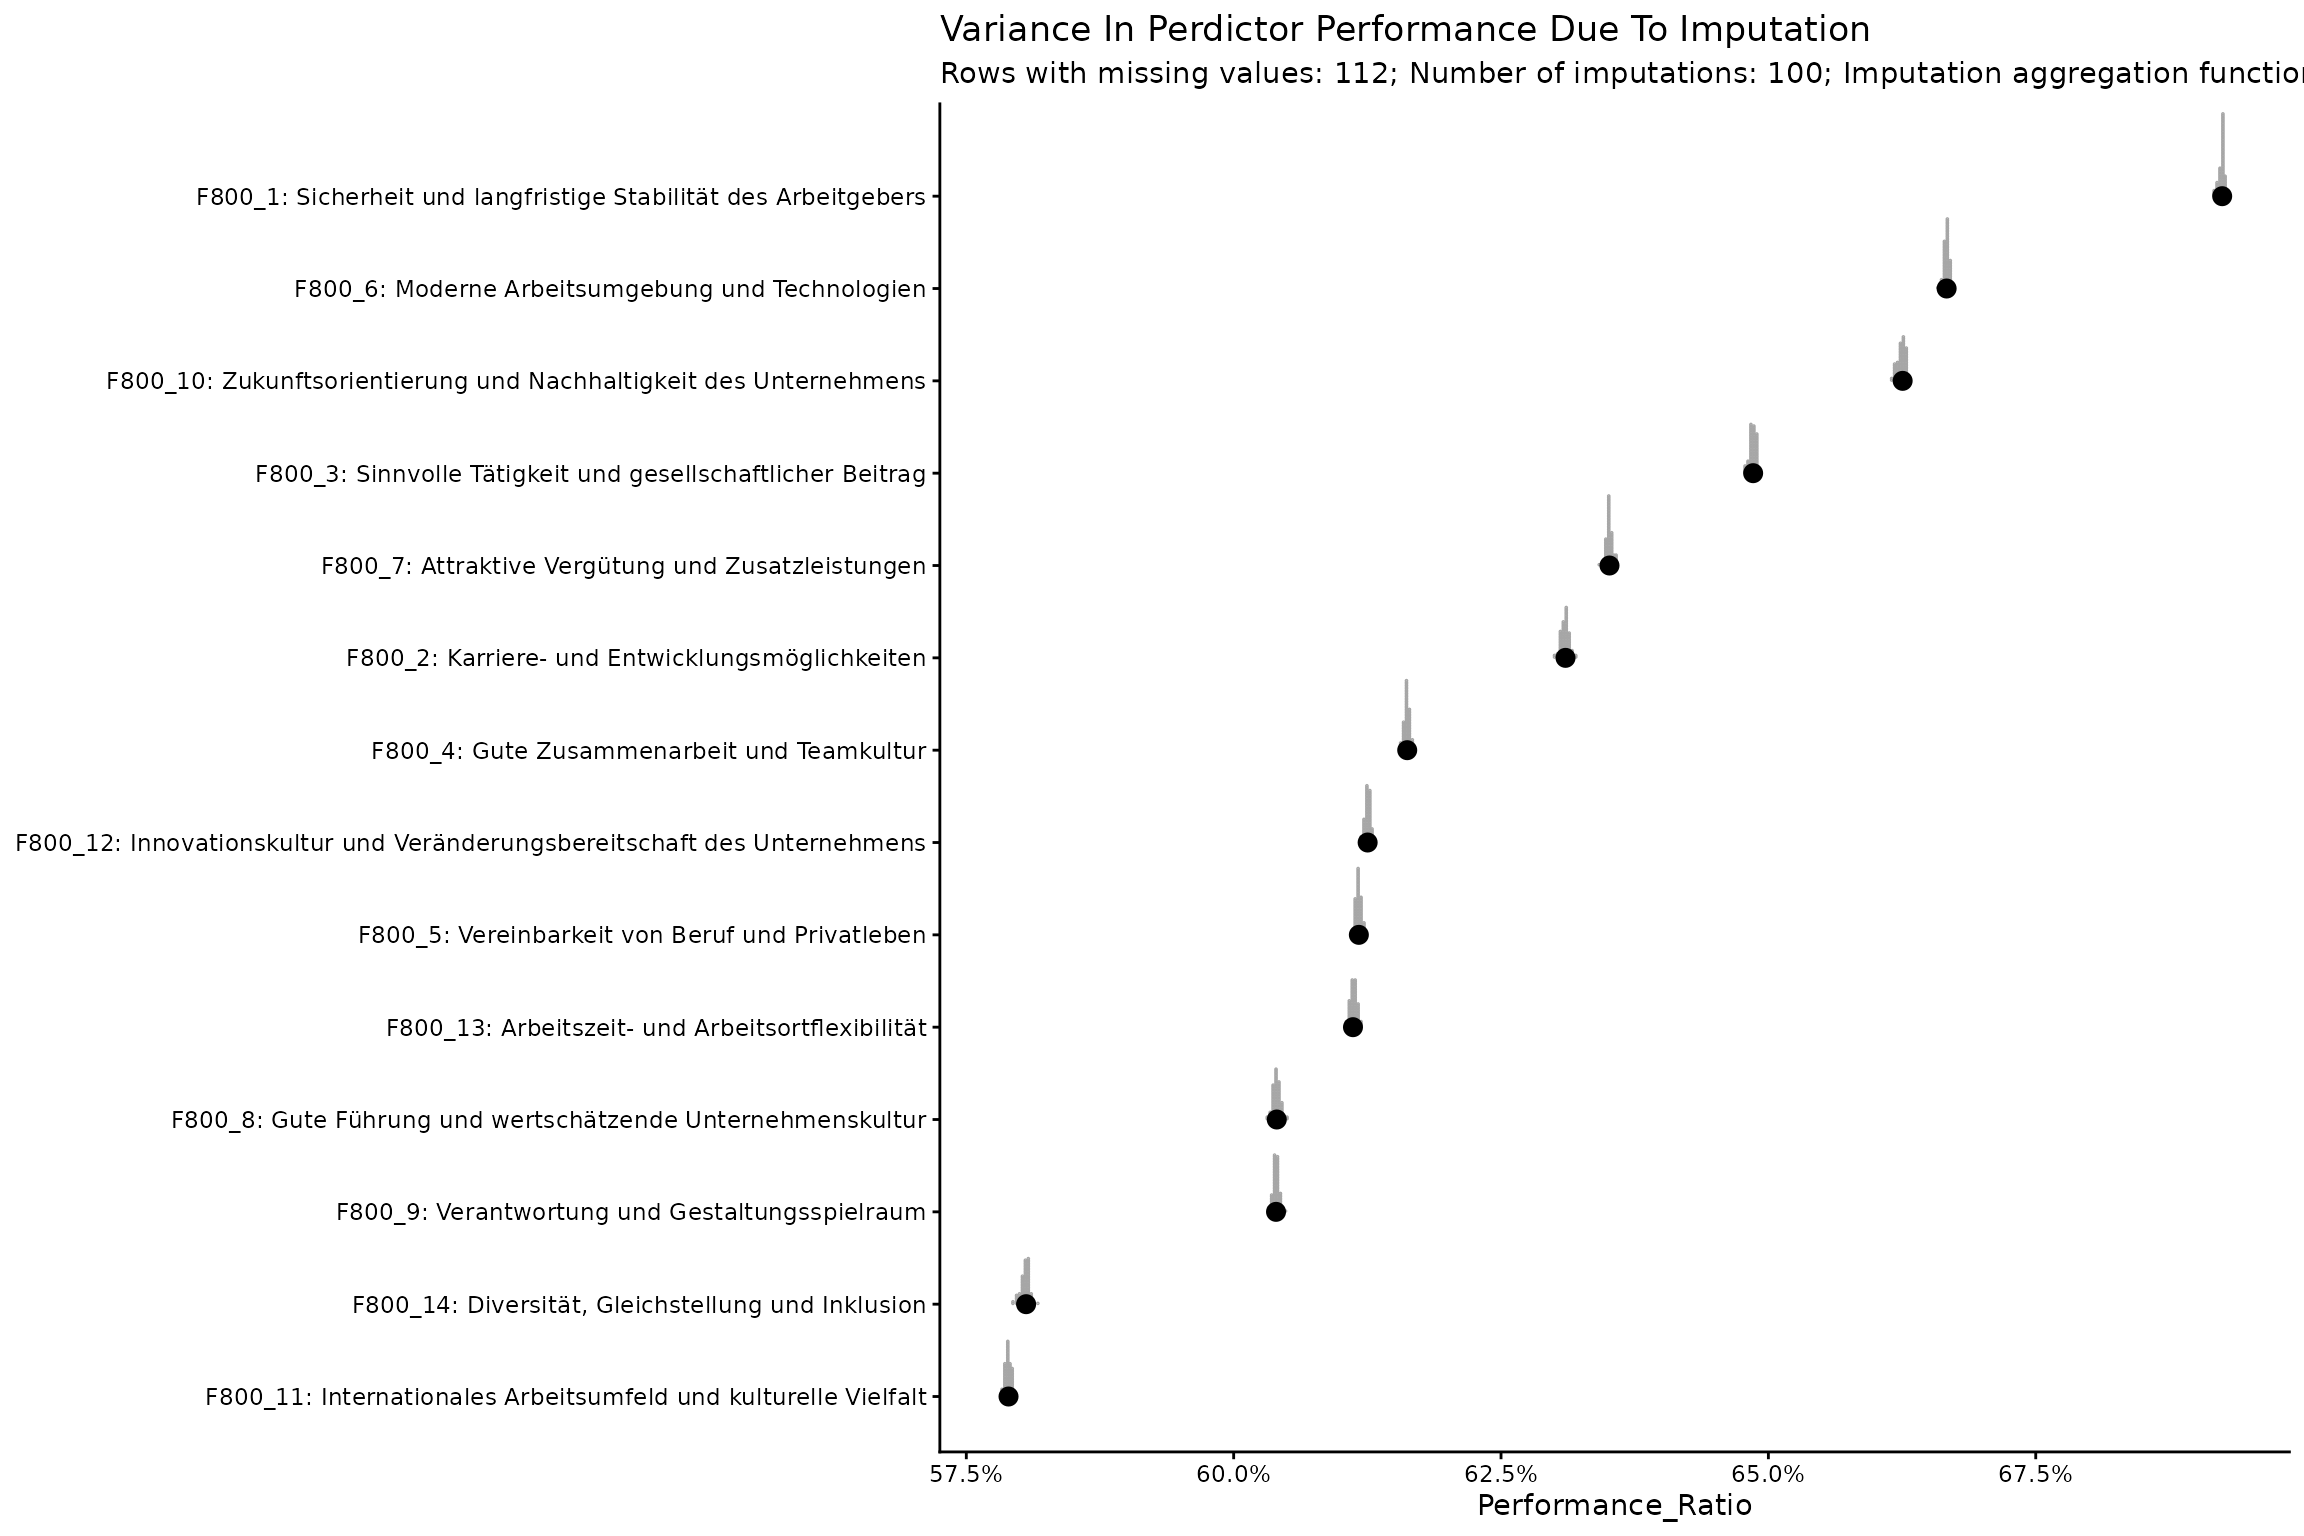
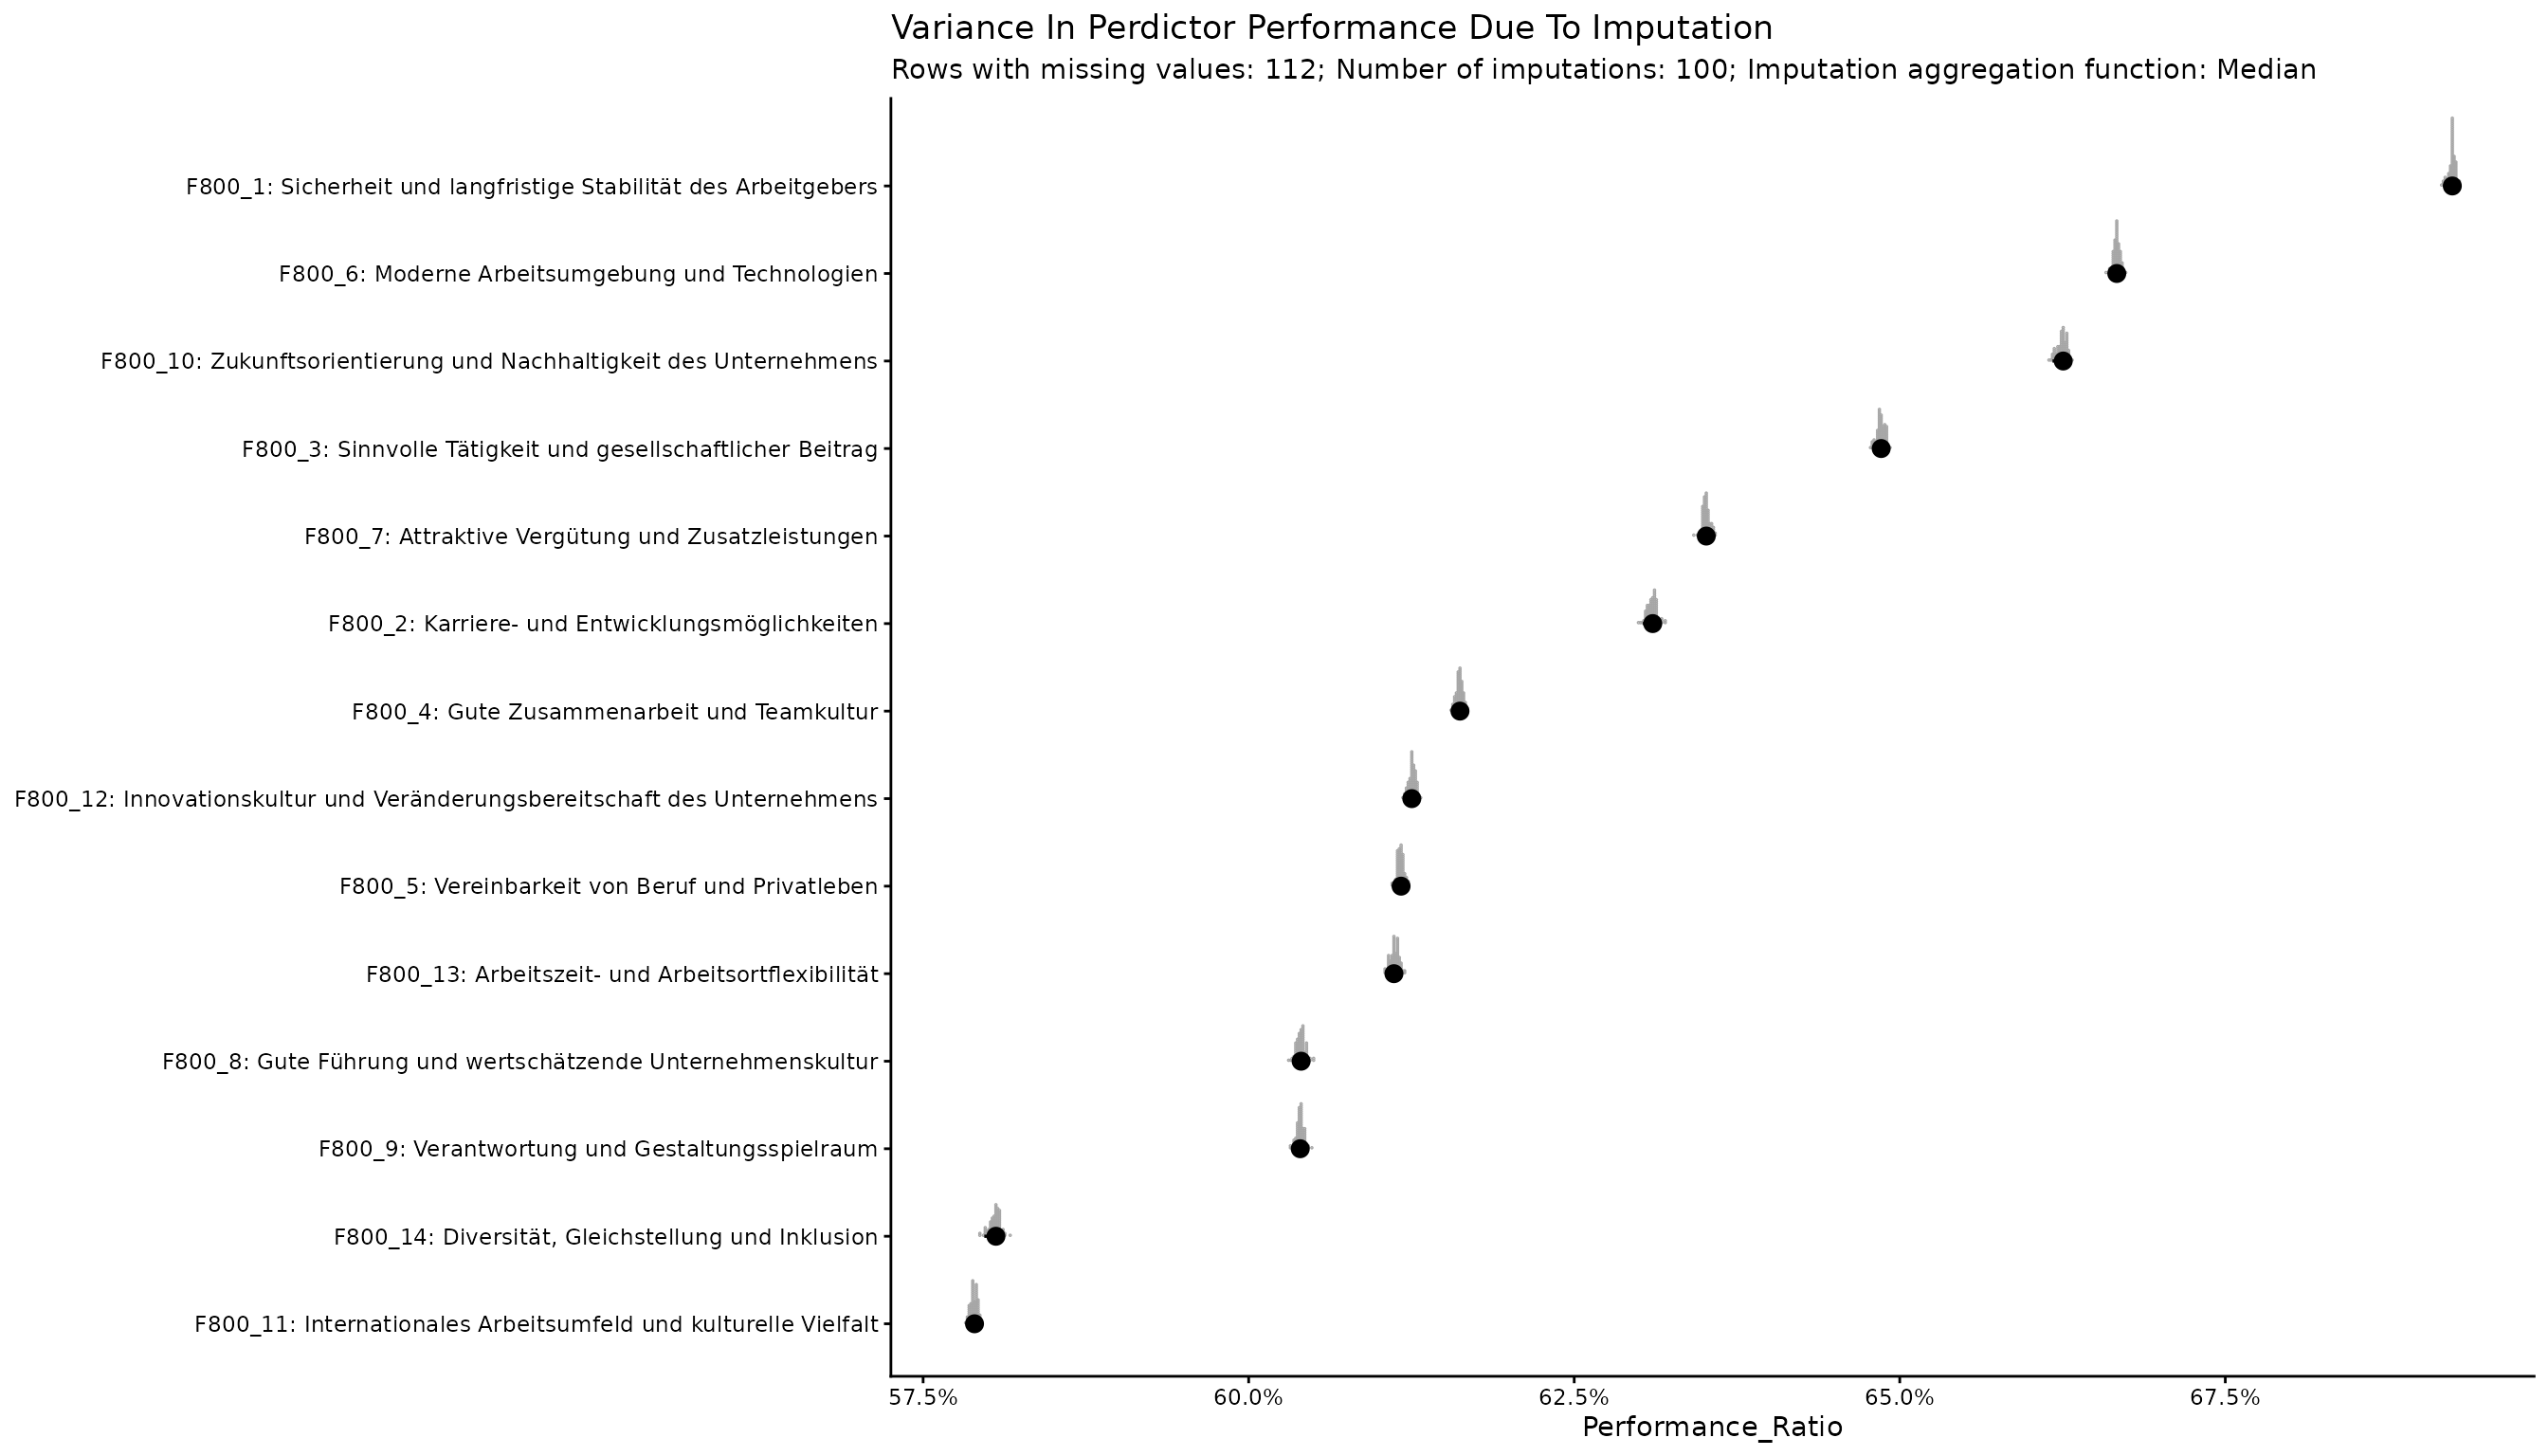
Deploying to gh-pages from @ EGuizarRosales/YouAnalyser@4ea6211e112b5817e6b1844a129b84ee0c59c4fc 🚀

diff --git a/articles/kda.html b/articles/kda.html
@@ -834,42 +834,6 @@ and is available as <code>bkw_missings</code>. Let’s have a look at the
 distribution of missing values in this dataset:</p>
 <div class="sourceCode" id="cb18"><pre class="downlit sourceCode r">
 <code class="sourceCode R"><span><span class="fu"><a href="../reference/eda_summary.html">eda_summary</a></span><span class="op">(</span><span class="va">bkw_missings</span>, console_output <span class="op">=</span> <span class="cn">TRUE</span>, browser_output <span class="op">=</span> <span class="cn">FALSE</span><span class="op">)</span></span>
-<span><span class="co">#&gt; Warning in png(png_loc &lt;- tempfile(fileext = ".png"), width = 150 *</span></span>
-<span><span class="co">#&gt; graph.magnif, : unable to open connection to X11 display ''</span></span>
-<span><span class="co">#&gt; Warning in png(png_loc &lt;- tempfile(fileext = ".png"), width = 150 *</span></span>
-<span><span class="co">#&gt; graph.magnif, : unable to open connection to X11 display ''</span></span>
-<span><span class="co">#&gt; Warning in png(png_loc &lt;- tempfile(fileext = ".png"), width = 150 *</span></span>
-<span><span class="co">#&gt; graph.magnif, : unable to open connection to X11 display ''</span></span>
-<span><span class="co">#&gt; Warning in png(png_loc &lt;- tempfile(fileext = ".png"), width = 150 *</span></span>
-<span><span class="co">#&gt; graph.magnif, : unable to open connection to X11 display ''</span></span>
-<span><span class="co">#&gt; Warning in png(png_loc &lt;- tempfile(fileext = ".png"), width = 150 *</span></span>
-<span><span class="co">#&gt; graph.magnif, : unable to open connection to X11 display ''</span></span>
-<span><span class="co">#&gt; Warning in png(png_loc &lt;- tempfile(fileext = ".png"), width = 150 *</span></span>
-<span><span class="co">#&gt; graph.magnif, : unable to open connection to X11 display ''</span></span>
-<span><span class="co">#&gt; Warning in png(png_loc &lt;- tempfile(fileext = ".png"), width = 150 *</span></span>
-<span><span class="co">#&gt; graph.magnif, : unable to open connection to X11 display ''</span></span>
-<span><span class="co">#&gt; Warning in png(png_loc &lt;- tempfile(fileext = ".png"), width = 150 *</span></span>
-<span><span class="co">#&gt; graph.magnif, : unable to open connection to X11 display ''</span></span>
-<span><span class="co">#&gt; Warning in png(png_loc &lt;- tempfile(fileext = ".png"), width = 150 *</span></span>
-<span><span class="co">#&gt; graph.magnif, : unable to open connection to X11 display ''</span></span>
-<span><span class="co">#&gt; Warning in png(png_loc &lt;- tempfile(fileext = ".png"), width = 150 *</span></span>
-<span><span class="co">#&gt; graph.magnif, : unable to open connection to X11 display ''</span></span>
-<span><span class="co">#&gt; Warning in png(png_loc &lt;- tempfile(fileext = ".png"), width = 150 *</span></span>
-<span><span class="co">#&gt; graph.magnif, : unable to open connection to X11 display ''</span></span>
-<span><span class="co">#&gt; Warning in png(png_loc &lt;- tempfile(fileext = ".png"), width = 150 *</span></span>
-<span><span class="co">#&gt; graph.magnif, : unable to open connection to X11 display ''</span></span>
-<span><span class="co">#&gt; Warning in png(png_loc &lt;- tempfile(fileext = ".png"), width = 150 *</span></span>
-<span><span class="co">#&gt; graph.magnif, : unable to open connection to X11 display ''</span></span>
-<span><span class="co">#&gt; Warning in png(png_loc &lt;- tempfile(fileext = ".png"), width = 150 *</span></span>
-<span><span class="co">#&gt; graph.magnif, : unable to open connection to X11 display ''</span></span>
-<span><span class="co">#&gt; Warning in png(png_loc &lt;- tempfile(fileext = ".png"), width = 150 *</span></span>
-<span><span class="co">#&gt; graph.magnif, : unable to open connection to X11 display ''</span></span>
-<span><span class="co">#&gt; Warning in png(png_loc &lt;- tempfile(fileext = ".png"), width = 150 *</span></span>
-<span><span class="co">#&gt; graph.magnif, : unable to open connection to X11 display ''</span></span>
-<span><span class="co">#&gt; Warning in png(png_loc &lt;- tempfile(fileext = ".png"), width = 150 *</span></span>
-<span><span class="co">#&gt; graph.magnif, : unable to open connection to X11 display ''</span></span>
-<span><span class="co">#&gt; Warning in png(png_loc &lt;- tempfile(fileext = ".png"), width = 150 *</span></span>
-<span><span class="co">#&gt; graph.magnif, : unable to open connection to X11 display ''</span></span>
 <span><span class="co">#&gt; </span></span>
 <span><span class="co">#&gt; ── Data Frame Summary</span></span>
 <span><span class="co">#&gt; Data Frame Summary  </span></span>

diff --git a/articles/kda.md b/articles/kda.md
@@ -863,42 +863,6 @@ Let’s have a look at the distribution of missing values in this dataset:
 ``` r
 
 eda_summary(bkw_missings, console_output = TRUE, browser_output = FALSE)
-#> Warning in png(png_loc <- tempfile(fileext = ".png"), width = 150 *
-#> graph.magnif, : unable to open connection to X11 display ''
-#> Warning in png(png_loc <- tempfile(fileext = ".png"), width = 150 *
-#> graph.magnif, : unable to open connection to X11 display ''
-#> Warning in png(png_loc <- tempfile(fileext = ".png"), width = 150 *
-#> graph.magnif, : unable to open connection to X11 display ''
-#> Warning in png(png_loc <- tempfile(fileext = ".png"), width = 150 *
-#> graph.magnif, : unable to open connection to X11 display ''
-#> Warning in png(png_loc <- tempfile(fileext = ".png"), width = 150 *
-#> graph.magnif, : unable to open connection to X11 display ''
-#> Warning in png(png_loc <- tempfile(fileext = ".png"), width = 150 *
-#> graph.magnif, : unable to open connection to X11 display ''
-#> Warning in png(png_loc <- tempfile(fileext = ".png"), width = 150 *
-#> graph.magnif, : unable to open connection to X11 display ''
-#> Warning in png(png_loc <- tempfile(fileext = ".png"), width = 150 *
-#> graph.magnif, : unable to open connection to X11 display ''
-#> Warning in png(png_loc <- tempfile(fileext = ".png"), width = 150 *
-#> graph.magnif, : unable to open connection to X11 display ''
-#> Warning in png(png_loc <- tempfile(fileext = ".png"), width = 150 *
-#> graph.magnif, : unable to open connection to X11 display ''
-#> Warning in png(png_loc <- tempfile(fileext = ".png"), width = 150 *
-#> graph.magnif, : unable to open connection to X11 display ''
-#> Warning in png(png_loc <- tempfile(fileext = ".png"), width = 150 *
-#> graph.magnif, : unable to open connection to X11 display ''
-#> Warning in png(png_loc <- tempfile(fileext = ".png"), width = 150 *
-#> graph.magnif, : unable to open connection to X11 display ''
-#> Warning in png(png_loc <- tempfile(fileext = ".png"), width = 150 *
-#> graph.magnif, : unable to open connection to X11 display ''
-#> Warning in png(png_loc <- tempfile(fileext = ".png"), width = 150 *
-#> graph.magnif, : unable to open connection to X11 display ''
-#> Warning in png(png_loc <- tempfile(fileext = ".png"), width = 150 *
-#> graph.magnif, : unable to open connection to X11 display ''
-#> Warning in png(png_loc <- tempfile(fileext = ".png"), width = 150 *
-#> graph.magnif, : unable to open connection to X11 display ''
-#> Warning in png(png_loc <- tempfile(fileext = ".png"), width = 150 *
-#> graph.magnif, : unable to open connection to X11 display ''
 #> 
 #> ── Data Frame Summary
 #> Data Frame Summary  